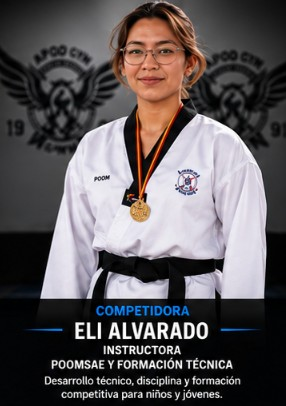
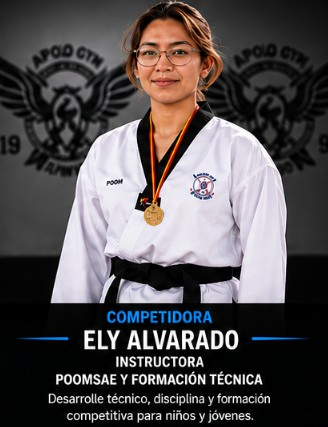
Add public ranking page for academy competitors

diff --git a/app/templates/public/ranking_publico.html b/app/templates/public/ranking_publico.html
@@ -1,0 +1,137 @@
+{% extends "base_public.html" %}
+{% block title %}Apolo Gym | Ranking Público{% endblock %}
+
+{% block content %}
+<section class="bg-dark text-white py-5">
+  <div class="container py-4">
+    <div class="row align-items-center g-4">
+      <div class="col-lg-8">
+        <span class="badge bg-danger mb-3 px-3 py-2">Apolo Gym Competencia</span>
+        <h1 class="display-5 fw-bold mb-3">Ranking de Competidores</h1>
+        <p class="lead text-white-50 mb-0">
+          Consulta el desempeño deportivo de nuestros competidores con base en participaciones,
+          categorías y medallas registradas en torneos oficiales.
+        </p>
+      </div>
+      <div class="col-lg-4">
+        <div class="card border-0 shadow-lg rounded-4">
+          <div class="card-body p-4 text-dark">
+            <div class="small text-uppercase text-muted fw-semibold mb-2">Sistema de puntos</div>
+            <div class="fw-bold fs-5 mb-2">🥇 Oro = 5 pts</div>
+            <div class="fw-bold fs-5 mb-2">🥈 Plata = 3 pts</div>
+            <div class="fw-bold fs-5">🥉 Bronce = 1 pt</div>
+          </div>
+        </div>
+      </div>
+    </div>
+  </div>
+</section>
+
+<section class="py-5 bg-light">
+  <div class="container">
+    {% if ranking %}
+      <div class="row g-4 mb-5">
+        {% for item in ranking[:3] %}
+        <div class="col-md-4">
+          <div class="card h-100 border-0 shadow-sm rounded-4 overflow-hidden {% if item.posicion == 1 %}border border-warning{% endif %}">
+            <div class="card-body p-4 text-center">
+              <div class="mb-3">
+                {% if item.posicion == 1 %}
+                  <span class="badge rounded-pill text-bg-warning fs-6 px-3 py-2">1er Lugar</span>
+                {% elif item.posicion == 2 %}
+                  <span class="badge rounded-pill text-bg-secondary fs-6 px-3 py-2">2do Lugar</span>
+                {% else %}
+                  <span class="badge rounded-pill text-bg-danger fs-6 px-3 py-2">3er Lugar</span>
+                {% endif %}
+              </div>
+              <h3 class="fw-bold mb-1">{{ item.nombre }}</h3>
+              <div class="text-muted mb-3">{{ item.grado or "Competidor Apolo Gym" }}</div>
+              <div class="display-6 fw-bold text-primary mb-3">{{ item.puntos }} pts</div>
+              <div class="small text-muted mb-2">{{ item.categorias or "Categoría no registrada" }}</div>
+              <div class="small text-muted mb-3">{{ item.modalidades or "Modalidad no registrada" }}</div>
+              <div class="d-flex justify-content-center gap-3 fw-semibold">
+                <span>🥇 {{ item.oros }}</span>
+                <span>🥈 {{ item.platas }}</span>
+                <span>🥉 {{ item.bronces }}</span>
+              </div>
+              <div class="mt-3 small text-secondary">{{ item.sucursal or "Sucursal no registrada" }}</div>
+            </div>
+          </div>
+        </div>
+        {% endfor %}
+      </div>
+
+      <div class="table-responsive d-none d-lg-block">
+        <table class="table table-hover align-middle shadow-sm bg-white rounded-4 overflow-hidden">
+          <thead class="table-dark">
+            <tr>
+              <th>Posición</th>
+              <th>Competidor</th>
+              <th>Grado</th>
+              <th>Categoría</th>
+              <th>Modalidad</th>
+              <th>Sucursal</th>
+              <th>Puntos</th>
+              <th>🥇</th>
+              <th>🥈</th>
+              <th>🥉</th>
+            </tr>
+          </thead>
+          <tbody>
+            {% for item in ranking %}
+            <tr>
+              <td><span class="badge text-bg-dark">{{ item.posicion }}</span></td>
+              <td class="fw-semibold">{{ item.nombre }}</td>
+              <td>{{ item.grado or "—" }}</td>
+              <td>{{ item.categorias or "—" }}</td>
+              <td>{{ item.modalidades or "—" }}</td>
+              <td>{{ item.sucursal or "—" }}</td>
+              <td class="fw-bold text-primary">{{ item.puntos }}</td>
+              <td>{{ item.oros }}</td>
+              <td>{{ item.platas }}</td>
+              <td>{{ item.bronces }}</td>
+            </tr>
+            {% endfor %}
+          </tbody>
+        </table>
+      </div>
+
+      <div class="row g-3 d-lg-none">
+        {% for item in ranking %}
+        <div class="col-12">
+          <div class="card border-0 shadow-sm rounded-4">
+            <div class="card-body p-4">
+              <div class="d-flex justify-content-between align-items-start gap-3">
+                <div>
+                  <div class="small text-muted mb-1">Posición #{{ item.posicion }}</div>
+                  <h5 class="fw-bold mb-1">{{ item.nombre }}</h5>
+                  <div class="text-muted small">{{ item.grado or "Sin grado registrado" }}</div>
+                </div>
+                <span class="badge text-bg-primary fs-6">{{ item.puntos }} pts</span>
+              </div>
+
+              <div class="mt-3 small">
+                <div class="mb-2"><strong>Categoría:</strong> {{ item.categorias or "—" }}</div>
+                <div class="mb-2"><strong>Modalidad:</strong> {{ item.modalidades or "—" }}</div>
+                <div class="mb-2"><strong>Sucursal:</strong> {{ item.sucursal or "—" }}</div>
+                <div class="fw-semibold">🥇 {{ item.oros }} · 🥈 {{ item.platas }} · 🥉 {{ item.bronces }}</div>
+              </div>
+            </div>
+          </div>
+        </div>
+        {% endfor %}
+      </div>
+    {% else %}
+      <div class="card border-0 shadow-sm rounded-4">
+        <div class="card-body text-center py-5">
+          <h3 class="fw-bold mb-3">Aún no hay resultados registrados para mostrar.</h3>
+          <p class="text-muted mb-0">
+            Cuando nuestros competidores acumulen participaciones y resultados en torneos,
+            el ranking aparecerá aquí automáticamente.
+          </p>
+        </div>
+      </div>
+    {% endif %}
+  </div>
+</section>
+{% endblock %}

diff --git a/app/templates/public/home.html b/app/templates/public/home.html
@@ -19,6 +19,7 @@
         <li class="nav-item"><a class="nav-link" href="#instructores">Instructores</a></li>
         <li class="nav-item"><a class="nav-link" href="#clases">Clases</a></li>
         <li class="nav-item"><a class="nav-link" href="#sucursales">Sucursales</a></li>
+        <li class="nav-item"><a class="nav-link" href="{{ url_for('public.ranking_publico') }}">Ranking</a></li>
         <li class="nav-item"><a class="nav-link" href="#contacto">Contacto</a></li>
         <li class="nav-item ms-lg-2">
           <a class="btn btn-outline-light btn-sm" href="{{ url_for('auth.login') }}">

diff --git a/app/routes/public.py b/app/routes/public.py
@@ -1,7 +1,17 @@
-from flask import Blueprint, render_template, abort, request
-from app.models import Alumno, Sucursal
+from flask import Blueprint, render_template, request
+from sqlalchemy import case, func
+
+from app.extensions import db
+from app.models.alumno import Alumno
+from app.models.categoriascompetencia import CategoriaCompetencia
+from app.models.grado import Grado
+from app.models.medalla import Medalla
+from app.models.participacion import Participacion
+from app.models.sucursal import Sucursal
+
 
 public_bp = Blueprint("public", __name__)
+
 
 def _get_academia_id_publica():
     """
@@ -11,18 +21,72 @@ def _get_academia_id_publica():
     - Cookie / sesión (si ya lo manejas)
     Por ahora dejo 3 alternativas. Usa la que ya tengas.
     """
-    # 1) Por querystring (útil local)
     q = request.args.get("academia_id", type=int)
     if q:
         return q
 
-    # 2) Por header
     h = request.headers.get("X-Academia-Id")
     if h and h.isdigit():
         return int(h)
 
-    # 3) Fallback: si Apolo es 1
     return 1
+
+
+def _query_ranking_publico(academia_id: int):
+    oro_expr = func.coalesce(
+        func.sum(case((func.upper(Medalla.nombre) == "ORO", 1), else_=0)),
+        0,
+    )
+    plata_expr = func.coalesce(
+        func.sum(case((func.upper(Medalla.nombre) == "PLATA", 1), else_=0)),
+        0,
+    )
+    bronce_expr = func.coalesce(
+        func.sum(case((func.upper(Medalla.nombre) == "BRONCE", 1), else_=0)),
+        0,
+    )
+    puntos_expr = (oro_expr * 5) + (plata_expr * 3) + bronce_expr
+
+    return (
+        db.session.query(
+            Alumno.id.label("alumno_id"),
+            Alumno.nombres,
+            Alumno.apellidos,
+            Grado.nombre.label("grado_nombre"),
+            Sucursal.nombre.label("sucursal_nombre"),
+            func.group_concat(func.distinct(Participacion.modalidad)).label("modalidades"),
+            func.group_concat(func.distinct(CategoriaCompetencia.nombre)).label("categorias"),
+            oro_expr.label("oros"),
+            plata_expr.label("platas"),
+            bronce_expr.label("bronces"),
+            puntos_expr.label("puntos"),
+        )
+        .join(Participacion, Participacion.alumno_id == Alumno.id)
+        .outerjoin(Medalla, Medalla.id == Participacion.medalla_id)
+        .outerjoin(Grado, Grado.id == Alumno.grado_id)
+        .outerjoin(Sucursal, Sucursal.id == Alumno.sucursal_id)
+        .outerjoin(CategoriaCompetencia, CategoriaCompetencia.id == Participacion.categoria_id)
+        .filter(
+            Alumno.activo.is_(True),
+            Alumno.academia_id == academia_id,
+            Participacion.academia_id == academia_id,
+        )
+        .group_by(
+            Alumno.id,
+            Alumno.nombres,
+            Alumno.apellidos,
+            Grado.nombre,
+            Sucursal.nombre,
+        )
+        .order_by(
+            puntos_expr.desc(),
+            oro_expr.desc(),
+            plata_expr.desc(),
+            bronce_expr.desc(),
+            Alumno.apellidos.asc(),
+            Alumno.nombres.asc(),
+        )
+    )
 
 
 @public_bp.route("/")
@@ -50,7 +114,34 @@ def home():
         "public/home.html",
         sucursales=sucursales,
         total_sucursales=total_sucursales,
-        total_alumnos=total_alumnos
+        total_alumnos=total_alumnos,
+    )
+
+
+@public_bp.route("/ranking-publico")
+def ranking_publico():
+    academia_id = _get_academia_id_publica()
+    rows = _query_ranking_publico(academia_id).all()
+
+    ranking = [
+        {
+            "posicion": index,
+            "nombre": f"{row.nombres} {row.apellidos}".strip(),
+            "grado": row.grado_nombre,
+            "categorias": row.categorias,
+            "modalidades": row.modalidades,
+            "sucursal": row.sucursal_nombre,
+            "oros": int(row.oros or 0),
+            "platas": int(row.platas or 0),
+            "bronces": int(row.bronces or 0),
+            "puntos": int(row.puntos or 0),
+        }
+        for index, row in enumerate(rows, start=1)
+    ]
+
+    return render_template(
+        "public/ranking_publico.html",
+        ranking=ranking,
     )
 
 

diff --git a/migrations/versions/047924194b1f_agregar_defensa_personal_a_examenes.py b/migrations/versions/047924194b1f_agregar_defensa_personal_a_examenes.py
@@ -1,0 +1,44 @@
+"""Agregar defensa personal a examenes
+
+Revision ID: 047924194b1f
+Revises: c505d314e4dc
+Create Date: 2026-05-23 17:35:30.883485
+
+"""
+from alembic import op
+import sqlalchemy as sa
+
+
+# revision identifiers, used by Alembic.
+revision = '047924194b1f'
+down_revision = 'c505d314e4dc'
+branch_labels = None
+depends_on = None
+
+
+def upgrade():
+    op.add_column(
+        'examenes',
+        sa.Column('usa_defensa_personal', sa.Boolean(), nullable=True)
+    )
+    op.add_column(
+        'examenes',
+        sa.Column('peso_defensa_personal', sa.Numeric(precision=5, scale=2), nullable=True)
+    )
+
+    op.add_column(
+        'examen_inscripciones',
+        sa.Column('nota_defensa_personal', sa.Numeric(precision=5, scale=2), nullable=True)
+    )
+    op.add_column(
+        'examen_inscripciones',
+        sa.Column('observacion_defensa_personal', sa.Text(), nullable=True)
+    )
+
+
+def downgrade():
+    op.drop_column('examen_inscripciones', 'observacion_defensa_personal')
+    op.drop_column('examen_inscripciones', 'nota_defensa_personal')
+
+    op.drop_column('examenes', 'peso_defensa_personal')
+    op.drop_column('examenes', 'usa_defensa_personal')
